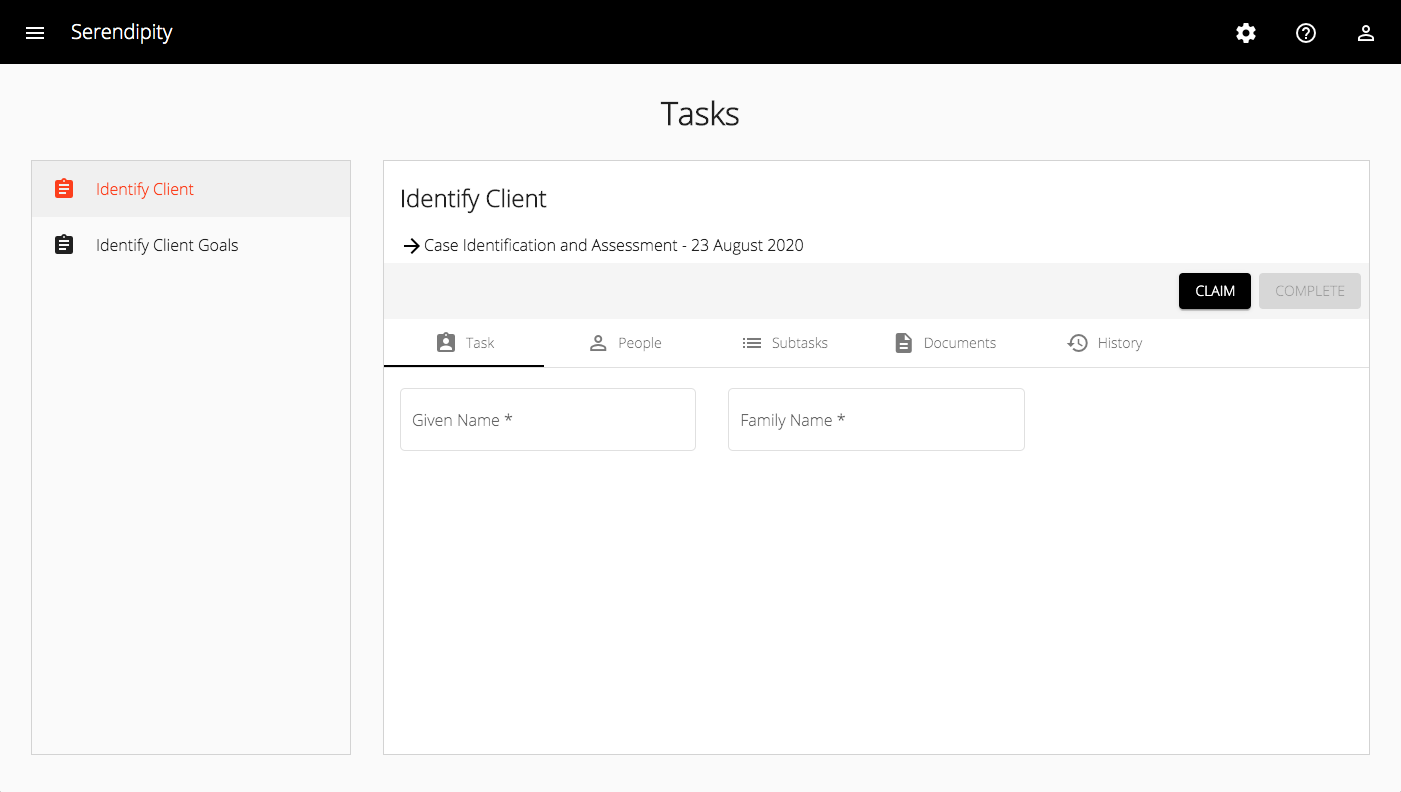
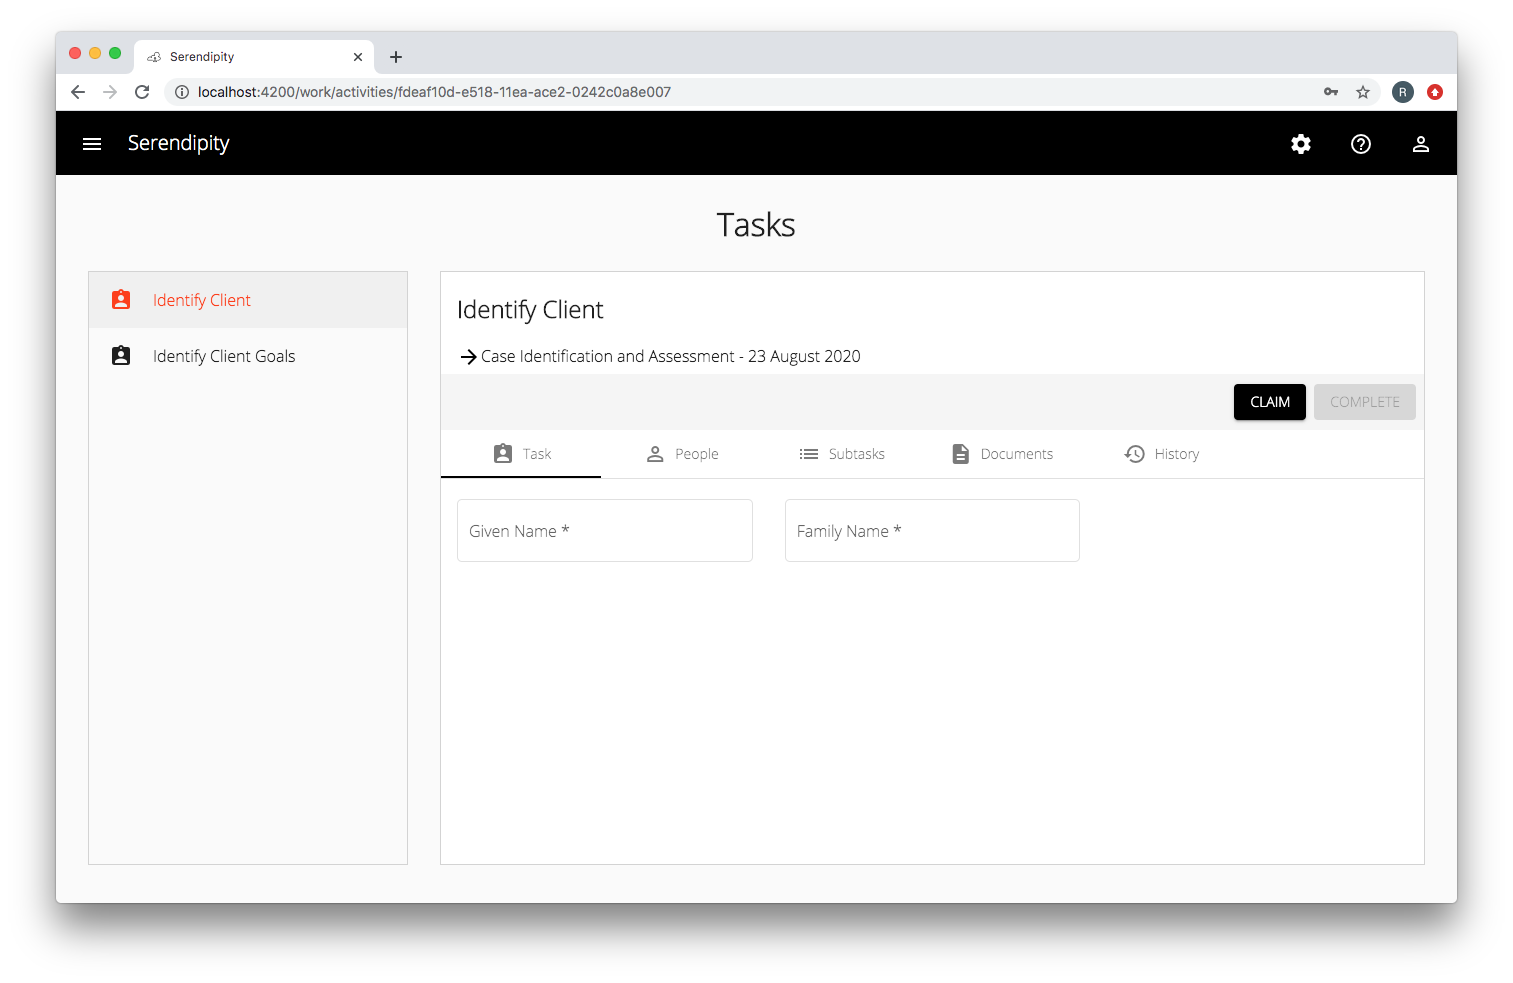
Updated the Flowable Start Process dialog

diff --git a/projects/flowable/src/lib/components/dialogs/start-process-dialog/start-process-dialog.component.ts b/projects/flowable/src/lib/components/dialogs/start-process-dialog/start-process-dialog.component.ts
@@ -1,8 +1,9 @@
-import { Component } from '@angular/core';
+import { Component, OnInit } from '@angular/core';
 
 import { MatDialogRef } from '@angular/material/dialog';
 import { MatSnackBar } from '@angular/material/snack-bar';
 
+import { AuthService } from 'auth';
 import { DialogService, SnackBarComponent } from 'serendipity-components';
 import { LoggerService } from 'utils';
 
@@ -14,21 +15,30 @@ import { ProcessesService } from '../../../services/processes/processes.service'
   templateUrl: './start-process-dialog.component.html',
   styleUrls: ['./start-process-dialog.component.scss']
 })
-export class StartProcessDialogComponent {
+export class StartProcessDialogComponent implements OnInit {
 
-  public title: string;
   public message: string;
-  public cancelButton = 'CANCEL';
-  public startButton = 'START';
+  public title: string;
 
-  private selectedItem: ProcessModel = null;
+  private currentUser: any;
   private disabled = false;
+  private selectedItem: ProcessModel = null;
 
-  constructor(private dialogRef: MatDialogRef<StartProcessDialogComponent>,
+  constructor(private authService: AuthService,
+              private dialogRef: MatDialogRef<StartProcessDialogComponent>,
               private dialogService: DialogService,
               private processesService: ProcessesService,
               private snackBar: MatSnackBar,
               private logger: LoggerService) {}
+
+  ngOnInit() {
+
+    this.logger.info('StartProcessDialogComponent: ngOnInit()');
+
+    this.currentUser = this.authService.getCurrentUser();
+
+    this.logger.info('currentUser: ' + JSON.stringify(this.currentUser, null, 2));
+  }
 
   public onSelectEvent(event: ProcessModel) {
 
@@ -45,6 +55,7 @@ export class StartProcessDialogComponent {
   //
 
   public onCancel(): void {
+
     this.dialogRef.close(false);
   }
 
@@ -63,7 +74,15 @@ export class StartProcessDialogComponent {
 
     const processModel = {
       name : this.selectedItem.name + ' - ' + today,
-      processDefinitionId : this.selectedItem.id
+      processDefinitionId : this.selectedItem.id,
+      variables : [
+        {
+          name: 'initiator',
+          type : 'string',
+          value: this.currentUser.username,
+          scope : 'local'
+        }
+      ]
     };
 
     /*

diff --git a/projects/flowable/src/lib/components/dialogs/start-process-dialog/start-process-dialog.component.html b/projects/flowable/src/lib/components/dialogs/start-process-dialog/start-process-dialog.component.html
@@ -11,7 +11,7 @@
           #cancelBtn
           (keydown.arrowright)="startBtn.focus()"
           (click)="onCancel()">
-    {{ cancelButton }}
+    {{ 'CANCEL_BUTTON' | translate }}
   </button>
   <button mat-button
           cdkFocusInitial
@@ -20,7 +20,7 @@
           (keydown.arrowleft)="cancelBtn.focus()"
           color="accent"
           (click)="onStart()">
-    {{ startButton }}
+    {{ 'START_BUTTON' | translate }}
   </button>
 
 </mat-dialog-actions>

diff --git a/projects/flowable/src/lib/components/task-list/task-list.component.html b/projects/flowable/src/lib/components/task-list/task-list.component.html
@@ -9,7 +9,7 @@
          [class.list-item-active]="item === selectedItem"
          (click)="onSelect(item)">
 
-        <mat-icon matListIcon class="crm-task-list-icon"> assignment </mat-icon>
+        <mat-icon matListIcon class="crm-task-list-icon"> assignment_ind </mat-icon>
 
         <p mat-line>
           {{item.name}}

diff --git a/projects/flowable/src/lib/components/task/task.component.html b/projects/flowable/src/lib/components/task/task.component.html
@@ -8,7 +8,7 @@
 
     <ng-container *ngIf="process">
       <mat-icon color="primary"> arrow_forward </mat-icon>
-      <span class="aligned-with-icon">
+      <span class="aligned-with-icon text-overflow-ellipsis">
         {{ process.name }}
       </span>
     </ng-container>

diff --git a/projects/flowable/src/lib/components/task/task.component.scss b/projects/flowable/src/lib/components/task/task.component.scss
@@ -5,6 +5,12 @@
   position: absolute;
 }
 
+.text-overflow-ellipsis {
+  white-space: nowrap;
+  overflow: hidden;
+  text-overflow: ellipsis;
+}
+
 .task-header {
   // height: 80px;
   // min-height: 80px;
